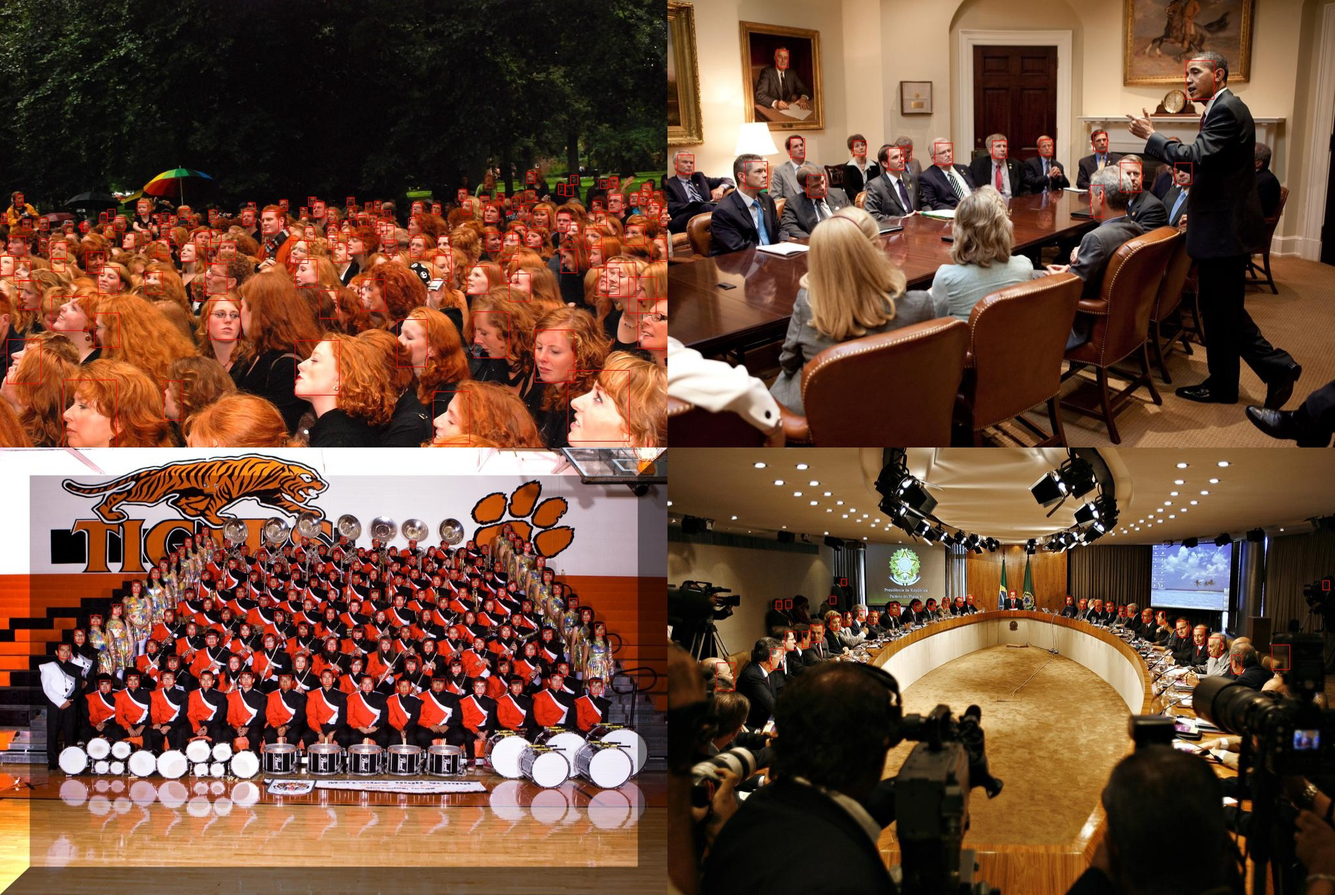
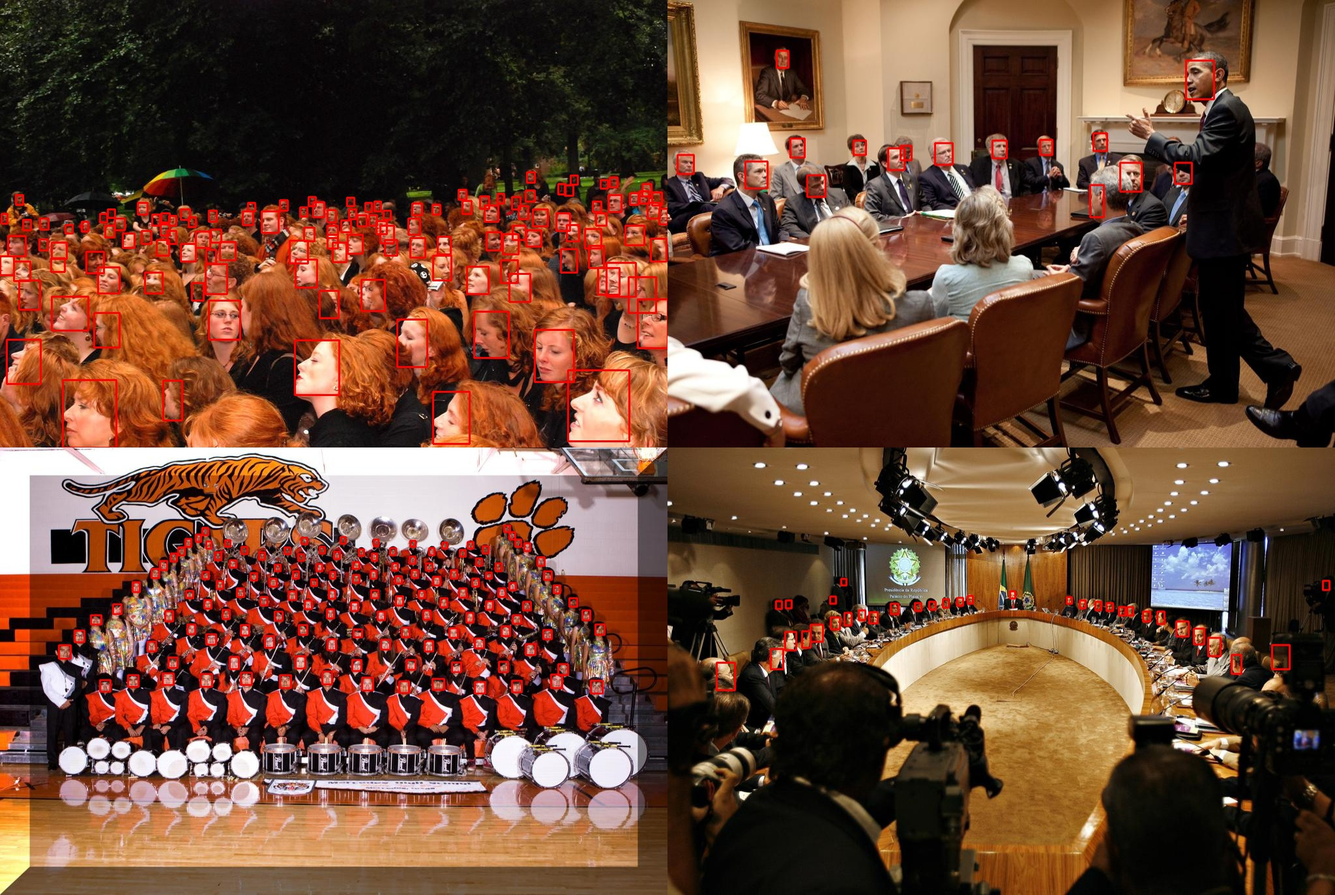
add: Dockerfile

diff --git a/test.py b/test.py
@@ -8,7 +8,7 @@ from dsfd import detect
 def draw_faces(im, bboxes):
     for bbox in bboxes:
         x0, y0, x1, y1 = [int(_) for _ in bbox]
-        cv2.rectangle(im, (x0, y0), (x1, y1), (0, 0, 255))
+        cv2.rectangle(im, (x0, y0), (x1, y1), (0, 0, 255), 2)
 
 
 if __name__ == "__main__":

diff --git a/README.md b/README.md
@@ -1,6 +1,8 @@
 # Dual Shot Face Detection - Pytorch Inference Code 
 A High-Performance Pytorch Implementation of the paper "[DSFD: Dual Shot Face Detector" (CVPR 2019).](http://openaccess.thecvf.com/content_CVPR_2019/papers/Li_DSFD_Dual_Shot_Face_Detector_CVPR_2019_paper.pdf).
+
 ![](example_det.jpg)
+
 **NOTE** This implementation is based on the [original source code](https://github.com/TencentYoutuResearch/FaceDetection-DSFD)  released by the authors of the paper. This repo can only be used for inference of their model based on ResNet-152 and all training scripts are removed. If you want to finetune the model, we recommend you to use the original source code.
 
 ## Requirements
@@ -9,6 +11,8 @@ A High-Performance Pytorch Implementation of the paper "[DSFD: Dual Shot Face De
 - Pytorch >= 1.1
 - Torchvision >= 0.3.0
 - OpenCV
+
+If you are familiar with Docker, we recommend you to use our custom [Dockerfile](Dockerfile) to set up your environment.
 
 ## Improvements from original source code
 
